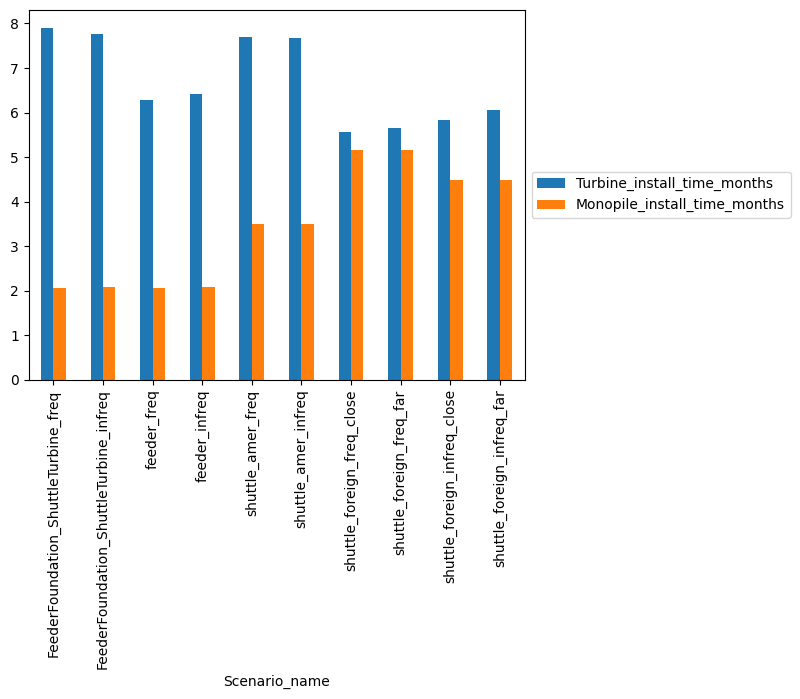
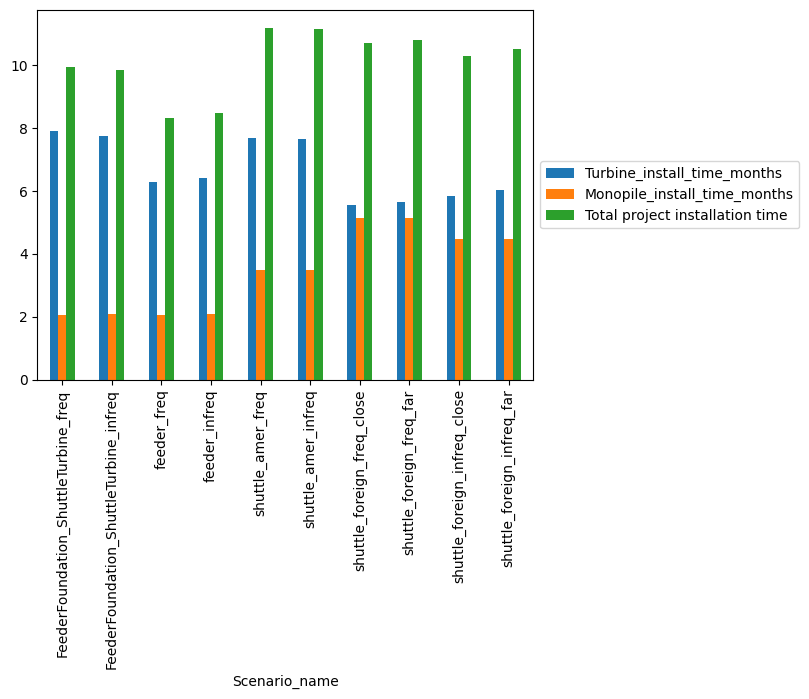
Added total installation time to output df and plots. Cleaned up unused variables

Changed region(s): [[0.0, 0.03, 1.0, 0.9614], [0.2812, 0.9614, 0.4375, 0.9914], [0.0, 0.5408, 0.0312, 0.5708]]

diff --git a/run_feeder_vs_shuttle_scenarios.py b/run_feeder_vs_shuttle_scenarios.py
@@ -29,16 +29,16 @@ WEATHER = pd.read_csv('library/weather/example_weather.csv', parse_dates=['datet
 num_turbines = 50
 #def run():
 
-total_capex = {}
-installation_times = {}
-installation_capex = {}
-capex_breakdown_per_kW = {}
+
 names = []
 
 total_monopile_installation_time_months = []
 total_turbine_installation_time_months = []
 substructure_installation_cost = []
 turbine_installation_cost = []
+capex_breakdown_per_kW = []
+installation_times = []
+
 
 #for i,f in enumerate(['shuttle_foreign_infreq_close.yaml', 'shuttle_foreign_infreq_far.yaml']):
 for i,f in enumerate(os.listdir('configs/')):
@@ -57,7 +57,6 @@ for i,f in enumerate(os.listdir('configs/')):
     ## append mod_config to config
     run_config = ProjectManager.merge_dicts(config, mod_config)
     
-    
     project = ProjectManager(run_config, library_path=LIBRARY, weather=WEATHER)
     project.run()
     
@@ -69,16 +68,12 @@ for i,f in enumerate(os.listdir('configs/')):
     action_phases = df['phase']
     #print('Phases are: ' + action_phases.unique())
     # df['action'] #### look through dataframe and see if monopile installation happens always before turbine installation !!! 
-    
-
    
     # Collect Results
-    total_capex[name] = project.total_capex
-    installation_times[name] = project.project_time
-    installation_capex[name] = project.installation_capex
-    capex_breakdown_per_kW[name] = project.capex_breakdown_per_kw
-    substructure_installation_cost += [capex_breakdown_per_kW[name].get('Substructure Installation')]
-    turbine_installation_cost += [capex_breakdown_per_kW[name].get('Turbine Installation')]
+    installation_times += [project.project_time / (8760/12)]
+    capex_breakdown_per_kW += [project.capex_breakdown_per_kw]
+    substructure_installation_cost += [project.capex_breakdown_per_kw['Substructure Installation']]
+    turbine_installation_cost += [project.capex_breakdown_per_kw['Turbine Installation']]
 
     ## write to excel file to use as input to gantt chart script
     time_str = pd.to_datetime(WEATHER.index[0])
@@ -106,7 +101,12 @@ for i,f in enumerate(os.listdir('configs/')):
     
 #return project
 
-df_install_times_and_cost = pd.DataFrame(data={'Scenario_name': names, 'Monopile_install_time_months': total_monopile_installation_time_months, 'Turbine_install_time_months': total_turbine_installation_time_months, 'Substructure_install_cost': substructure_installation_cost, 'Turbine_install_cost': turbine_installation_cost})
+df_install_times_and_cost = pd.DataFrame(data={'Scenario_name': names, 
+                                               'Total project installation time': installation_times,
+                                               'Monopile_install_time_months': total_monopile_installation_time_months, 
+                                               'Turbine_install_time_months': total_turbine_installation_time_months, 
+                                               'Substructure_install_cost': substructure_installation_cost, 
+                                               'Turbine_install_cost': turbine_installation_cost})
 
 df_install_times_and_cost = df_install_times_and_cost.set_index('Scenario_name')
 
@@ -122,7 +122,7 @@ fig.savefig('install_cost_comparison.png', bbox_inches='tight')
 
 
 fig = plt.figure()
-df_install_times_and_cost[['Turbine_install_time_months', 'Monopile_install_time_months']].plot(kind='bar', ax = fig.gca())
+df_install_times_and_cost[['Turbine_install_time_months', 'Monopile_install_time_months', 'Total project installation time']].plot(kind='bar', ax = fig.gca())
 plt.legend(loc='center left', bbox_to_anchor = (1.0, 0.5))
 fig.savefig('install_time_comparison.png', bbox_inches='tight')
 
